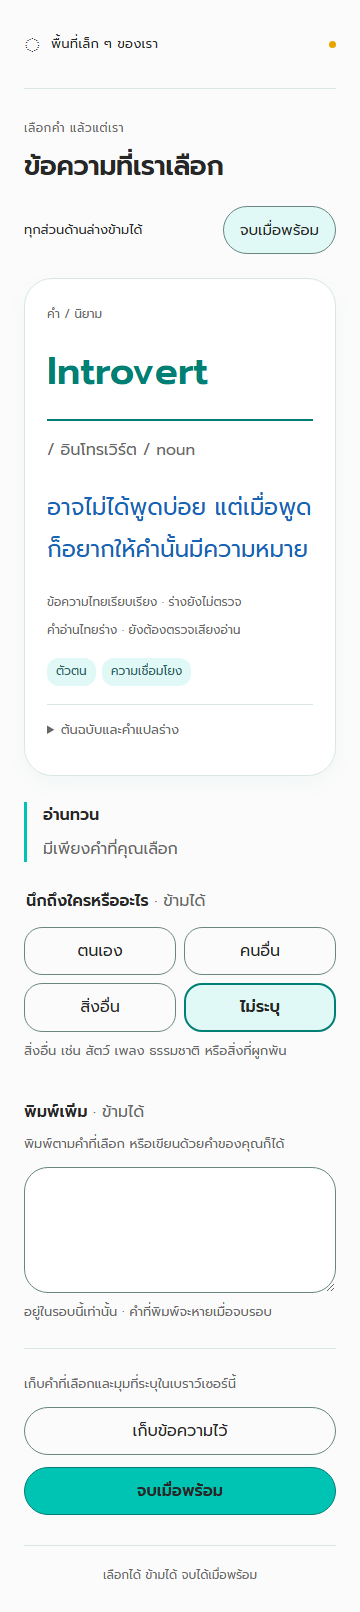
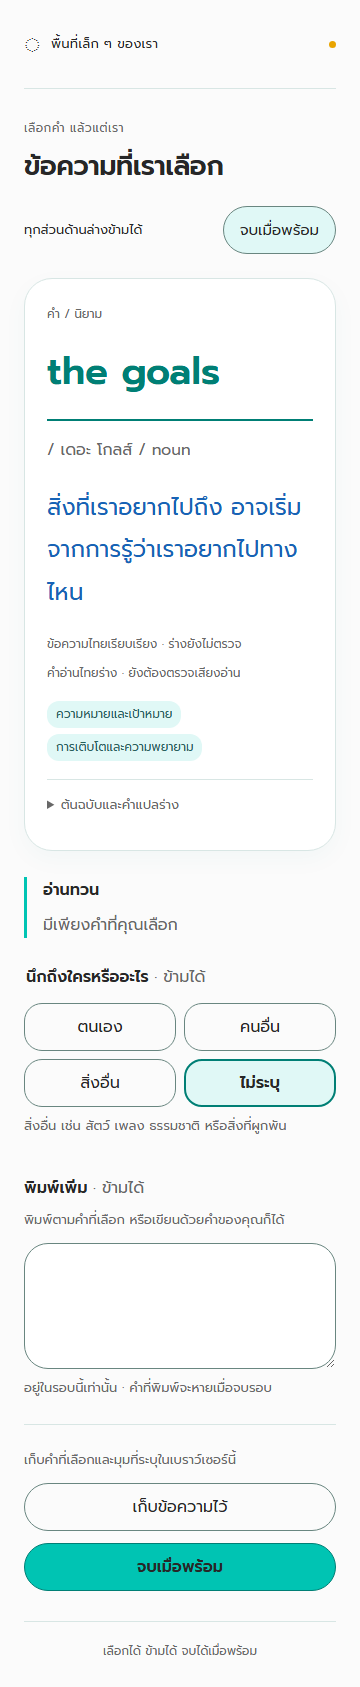
Record live swipe checks and unresolved combined touch sequence

diff --git a/evidence/swipe-verification.md b/evidence/swipe-verification.md
@@ -1,0 +1,27 @@
+# Swipe release — verified results and remaining limitation
+
+Live: https://vagueslim.github.io/OOCATest/
+
+App commit: `841974bd135eaac6226b6041914d452564a54a86`
+[Successful deployment](https://github.com/Vagueslim/OOCATest/actions/runs/42215124238)
+Checked live: 2026-11-06 12:08 UTC.
+
+## Passed
+
+- Local and GitHub production builds.
+- Local 22 tests: A01–A12, catalog/legacy storage, 4 independent swipe/tap cases.
+- Visual lint: 7 snapshots, no findings; screenshot inspected.
+- Live 4 independent gesture/control tests: left next; right previous; first-card boundary; prior/next replay; deck seam; short drag ignored; vertical native scroll without changing the quote; swipe on details does not browse; native details tap and select tap in a fresh case; keyboard buttons; no save caused by browsing.
+- Live catalog/flow smoke: all 53 entries match local catalog, draft labels, word/Japanese rendering, end before selection, select then skip all actions, no-selection/hug/end, save/update/reload/history/delete, failed save permits end without false success, synthetic legacy v1 data preserved, no runtime/network errors.
+
+[Mobile screenshot](swipe-mobile.png)
+
+## Unresolved combined touch sequence — do not treat as passed
+
+The earlier combined sequence (short drag → vertical scroll → horizontal drag on native details → tap details) intermittently failed to toggle details in Chromium emulation. Event tracing showed pointer/touch events but no synthesized click. Increasing delay and changing emulation settings did not consistently resolve it. A fresh native-tap case passes. Details now live outside the swipe surface, but the combined sequence also failed locally after that isolation.
+
+The final 22 local tests and 4 live tests deliberately test gestures and native taps as independent cases. They do **not** establish that the combined sequence is fixed. Root cause is not confirmed; do not claim it is only an emulator issue. Physical mobile browsers, Safari/iOS and Android remain untested. This limitation needs device validation before claiming complete touch QA.
+
+## Behavior / data
+
+Swipe navigates only. Selection and saving require explicit buttons. Left draws the next unseen item or replays a visited item; right moves back through the current round. First item has no predecessor; the previous button is disabled. Round history is temporary. Existing saved-text schema and key are unchanged. Catalog translations/readings remain labeled drafts; no recorded audio was added.
